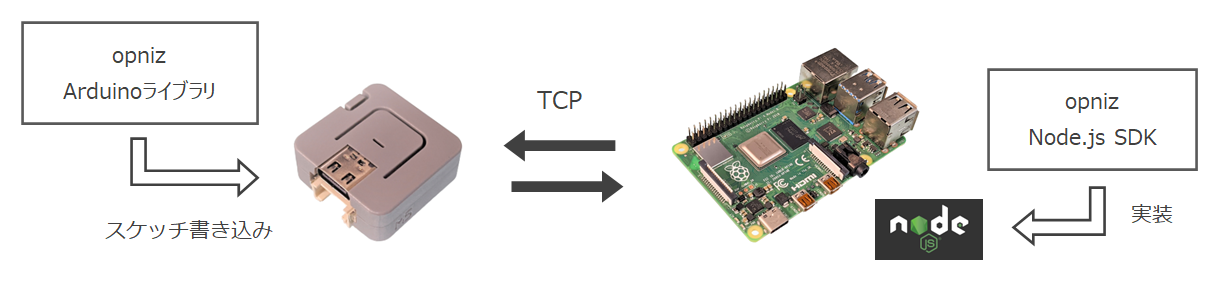
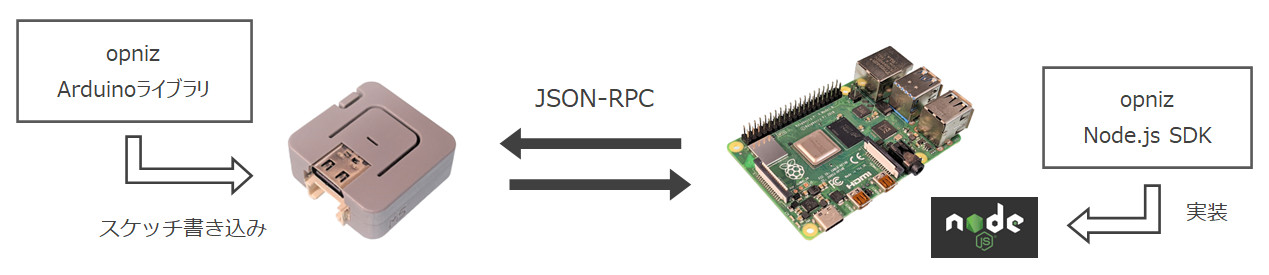
[update] WebSocket対応

diff --git a/README.md b/README.md
@@ -1,19 +1,19 @@
 # opniz
 
+![logo](./extras/images/logo.png)
+
 `❗ このプロジェクトは現在アルファ版です。`
 
-opnizとはM5StackといったESP32デバイスをNode.jsからobnizライクに制御するための、**Node.js SDK**および**Arduinoライブラリ**です。  
-ざっくりいうとサーバーを介さない、オープンソースな、obnizっぽい実装ができるなにかです。  
-
-しくみとしてはESP32デバイスおよびNode.js SDKにて**TCPサーバー/クライアントを実行**し、相互にTCP経由で**JSONメッセージ**をやりとりしています。  
+opnizとはM5StackといったESP32デバイスをNode.jsからobnizライクに遠隔制御するための、**Node.js SDK**および**Arduinoライブラリ**です。  
+しくみとしてはESP32デバイスおよびNode.js SDK間にて**JSON形式のRPCメッセージ**をやりとりし、相互に定義されたメソッドを呼び合います。  
 
 ![overview](./extras/images/overview.png)
 
 現在Node.js SDK、Arduinoライブラリともに**ESP32**および**M5ATOM**クラスを実装しています。  
 M5ATOMクラスで**M5Stack、M5StickC、M5ATOM Lite、M5ATOM Matrixでの動作を確認しています。**  
 
-新たなデバイスクラスを簡単に拡張できる設計となっています。  
-おってリファレンスも作成予定ですが、クラス拡張ハンズオンも作成予定です。  
+新たなデバイスクラスや独自のメソッドを簡単に拡張できる設計となっています。  
+また**クラウド環境（PaaS、FaaS等）でも動作**させることができます。  
 
 
 
@@ -30,28 +30,50 @@ M5ATOMクラスで**M5Stack、M5StickC、M5ATOM Lite、M5ATOM Matrixでの動作
 ## Arduinoライブラリ
 
 アルファ版をGitHubにて公開しています。  
+現在M5ATOM向けとESP32向けのライブラリをそれぞれ公開しています。  
 
-**[opniz-device](https://github.com/miso-develop/opniz-device)**
+**[opniz-arduino-m5atom](https://github.com/miso-develop/opniz-arduino-m5atom)**  
+**[opniz-arduino-esp32](https://github.com/miso-develop/opniz-arduino-esp32)**  
 
-Node.js SDKからのTCPリクエストを処理するハンドラーと、ESP32デバイスからのイベントを発火するエミッターを実装したデバイスクラスを提供します。  
+Node.js SDKからのRPCリクエストを処理するハンドラと、ESP32デバイスからのRPCイベントを発火するエミッタを実装したデバイスクラスを提供します。  
 Arduino IDEおよびPlatformIOに対応しています。  
-
 
 
 ## 実装状況
 
-現在ESP32、M5ATOM Liteクラスを実装しています。  
+現在M5ATOM、ESP32クラスを実装しています。  
 これらのクラスはそれぞれ対応するArduinoライブラリを模しています。  
 これらのクラスを継承して簡単に新たなデバイスクラスを拡張できる設計となっています。  
 
-ESP32クラスを継承したM5ATOM Liteクラスの実装を参照すると拡張のヒントになると思います。  
+ESP32クラスを継承したM5ATOMクラスの実装を参照すると拡張のヒントになると思います。  
 
-[Node.js SDKのM5ATOM Liteクラス](https://github.com/miso-develop/opniz-sdk-nodejs/blob/main/src/devices/M5AtomLite.ts)では、LEDを制御する`drawpix`メソッドと、デバイスのボタンを押したときの`onbutton`メソッドの2つのメソッドのみを実装しています。  
-この2つのメソッドはそれぞれ、opnizデバイスに対する命令と、opnizデバイスからのイベント処理の実装です。  
+たとえば[Node.js SDKのM5ATOMクラス](https://github.com/miso-develop/opniz-sdk-nodejs/blob/main/src/devices/M5Atom.ts)ではLEDを制御する`dis.drawpix`メソッドと、デバイスのボタンを押したときの`onbutton`メソッドを実装しています。  
+これらメソッドはそれぞれ、デバイスに対する命令と、デバイスからのイベント処理の実装です。  
 opnizの拡張はこの2種類の動作を定義していくだけです。  
 
-[ArduinoライブラリのM5ATOM Liteクラス](https://github.com/miso-develop/opniz-device/blob/main/src/devices/M5AtomLite.cpp)では、Node.js SDKからのLED制御メッセージを受け取る`DrawpixHandler`と、デバイスのボタンを押したときにNode.js SDKへイベントを発火する`ButtonEmitter`のみを実装しています。  
-必要に応じて同様にハンドラー、エミッターを継承実装することで拡張が行えます。  
+[ArduinoライブラリのM5ATOMクラス](https://github.com/miso-develop/opniz-arduino-m5atom/blob/main/src/opniz/M5Atom.cpp)では、Node.js SDKからの制御メッセージを受け取るハンドラと、デバイスのボタンを押したときにNode.js SDKへイベントを発火するエミッタをそれぞれ実装しています。  
+必要に応じて同様にハンドラ、エミッタを継承実装することで拡張が行えます。  
+
+
+
+## 利用可能な通信プロトコル
+
+opniz Node.js SDKでは以下の通信プロトコルを実装しています。  
+デフォルトでは`WebSocket (Server)`が使用されます。  
+
+* WebSocket (Server)
+* WebSocket (Client)
+* TCP (Server/Client同居)
+
+opniz Arduinoライブラリでは以下の通信プロトコルを実装しています。  
+デフォルトでは`WebSocket (Client)`が使用されます。  
+
+* WebSocket (Client)
+* TCP (Server/Client同居)
+
+使用するプロトコルによりopnizのコンストラクタパラメータが変わってきます。  
+
+またクラウド（PaaS、FaaS）へデプロイして動作させたり、Node.js SDK同士の接続も可能です。  
 
 
 
